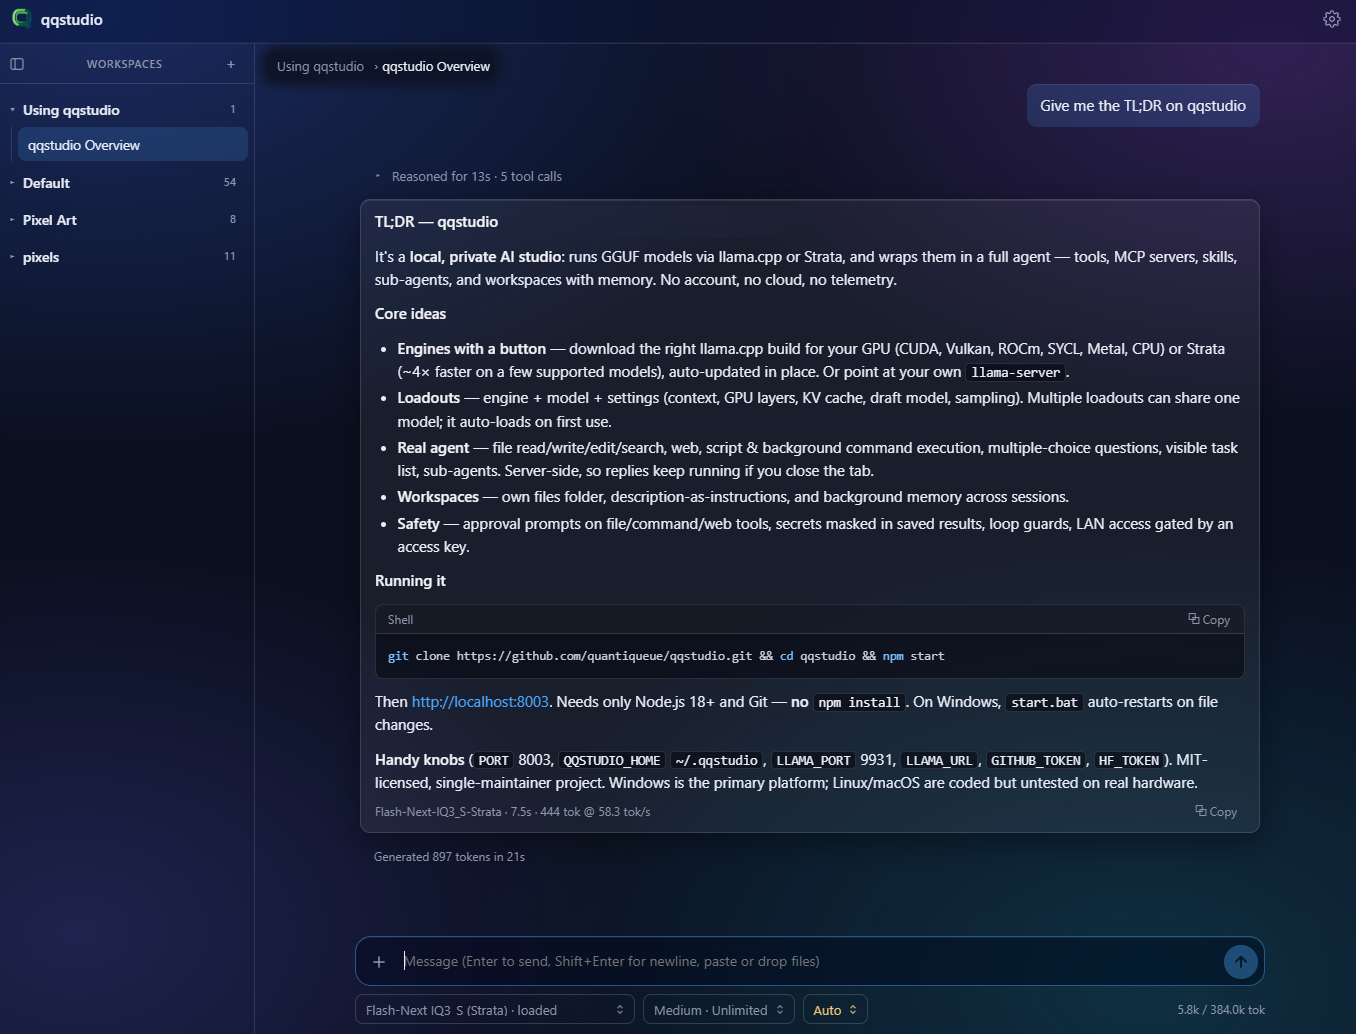
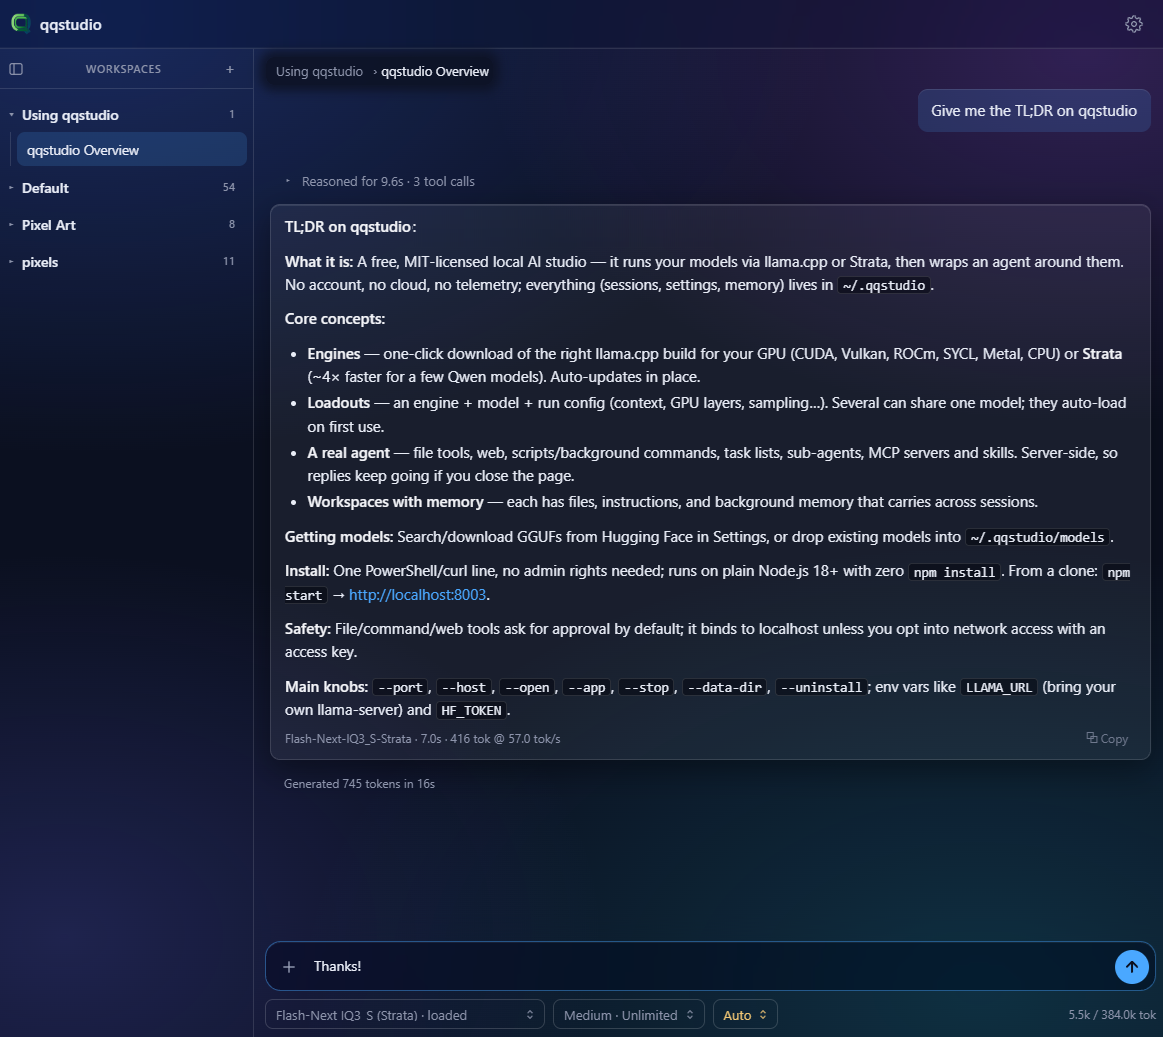
README: new landing screenshot; no clone section; platforms line without the hardware note

diff --git a/README.md b/README.md
@@ -30,20 +30,6 @@ No admin rights and nothing to install first: it uses your Node.js if it's 18 or
 - **Uninstall:** `qqstudio --uninstall`. It asks before deleting engines and models, and separately before deleting your settings and sessions.
 - **From a terminal:** `qqstudio` (runs there, Ctrl+C stops it), `qqstudio --open` (opens your browser), `qqstudio --help`.
 
-### Run from a clone
-
-You need [Node.js](https://nodejs.org) 18 or newer and [Git](https://git-scm.com).
-
-```sh
-git clone https://github.com/quantiqueue/qqstudio.git
-cd qqstudio
-npm start
-```
-
-Then open <http://localhost:8003>. To update, run `git pull` in the same folder and start it again.
-
-On Windows you can also double-click `start.bat` (it restarts qqstudio when its files change, which is handy while developing).
-
 ### First steps
 
 1. **Settings → Engines:** download a llama.cpp build (the suggested one fits your graphics card) or Strata. You can also point at a `llama-server` you already have.
@@ -95,7 +81,7 @@ Or set these as environment variables before starting:
 
 ## Platforms
 
-qqstudio is developed and used on Windows. Linux and macOS are supported in the code (engine downloads, processes and folders for each system) but haven't been run on real hardware yet. Reports are welcome.
+qqstudio is developed and used on Windows. Linux and macOS are supported in the code (engine downloads, processes and folders for each system). Reports are welcome.
 
 ## Troubleshooting
 
